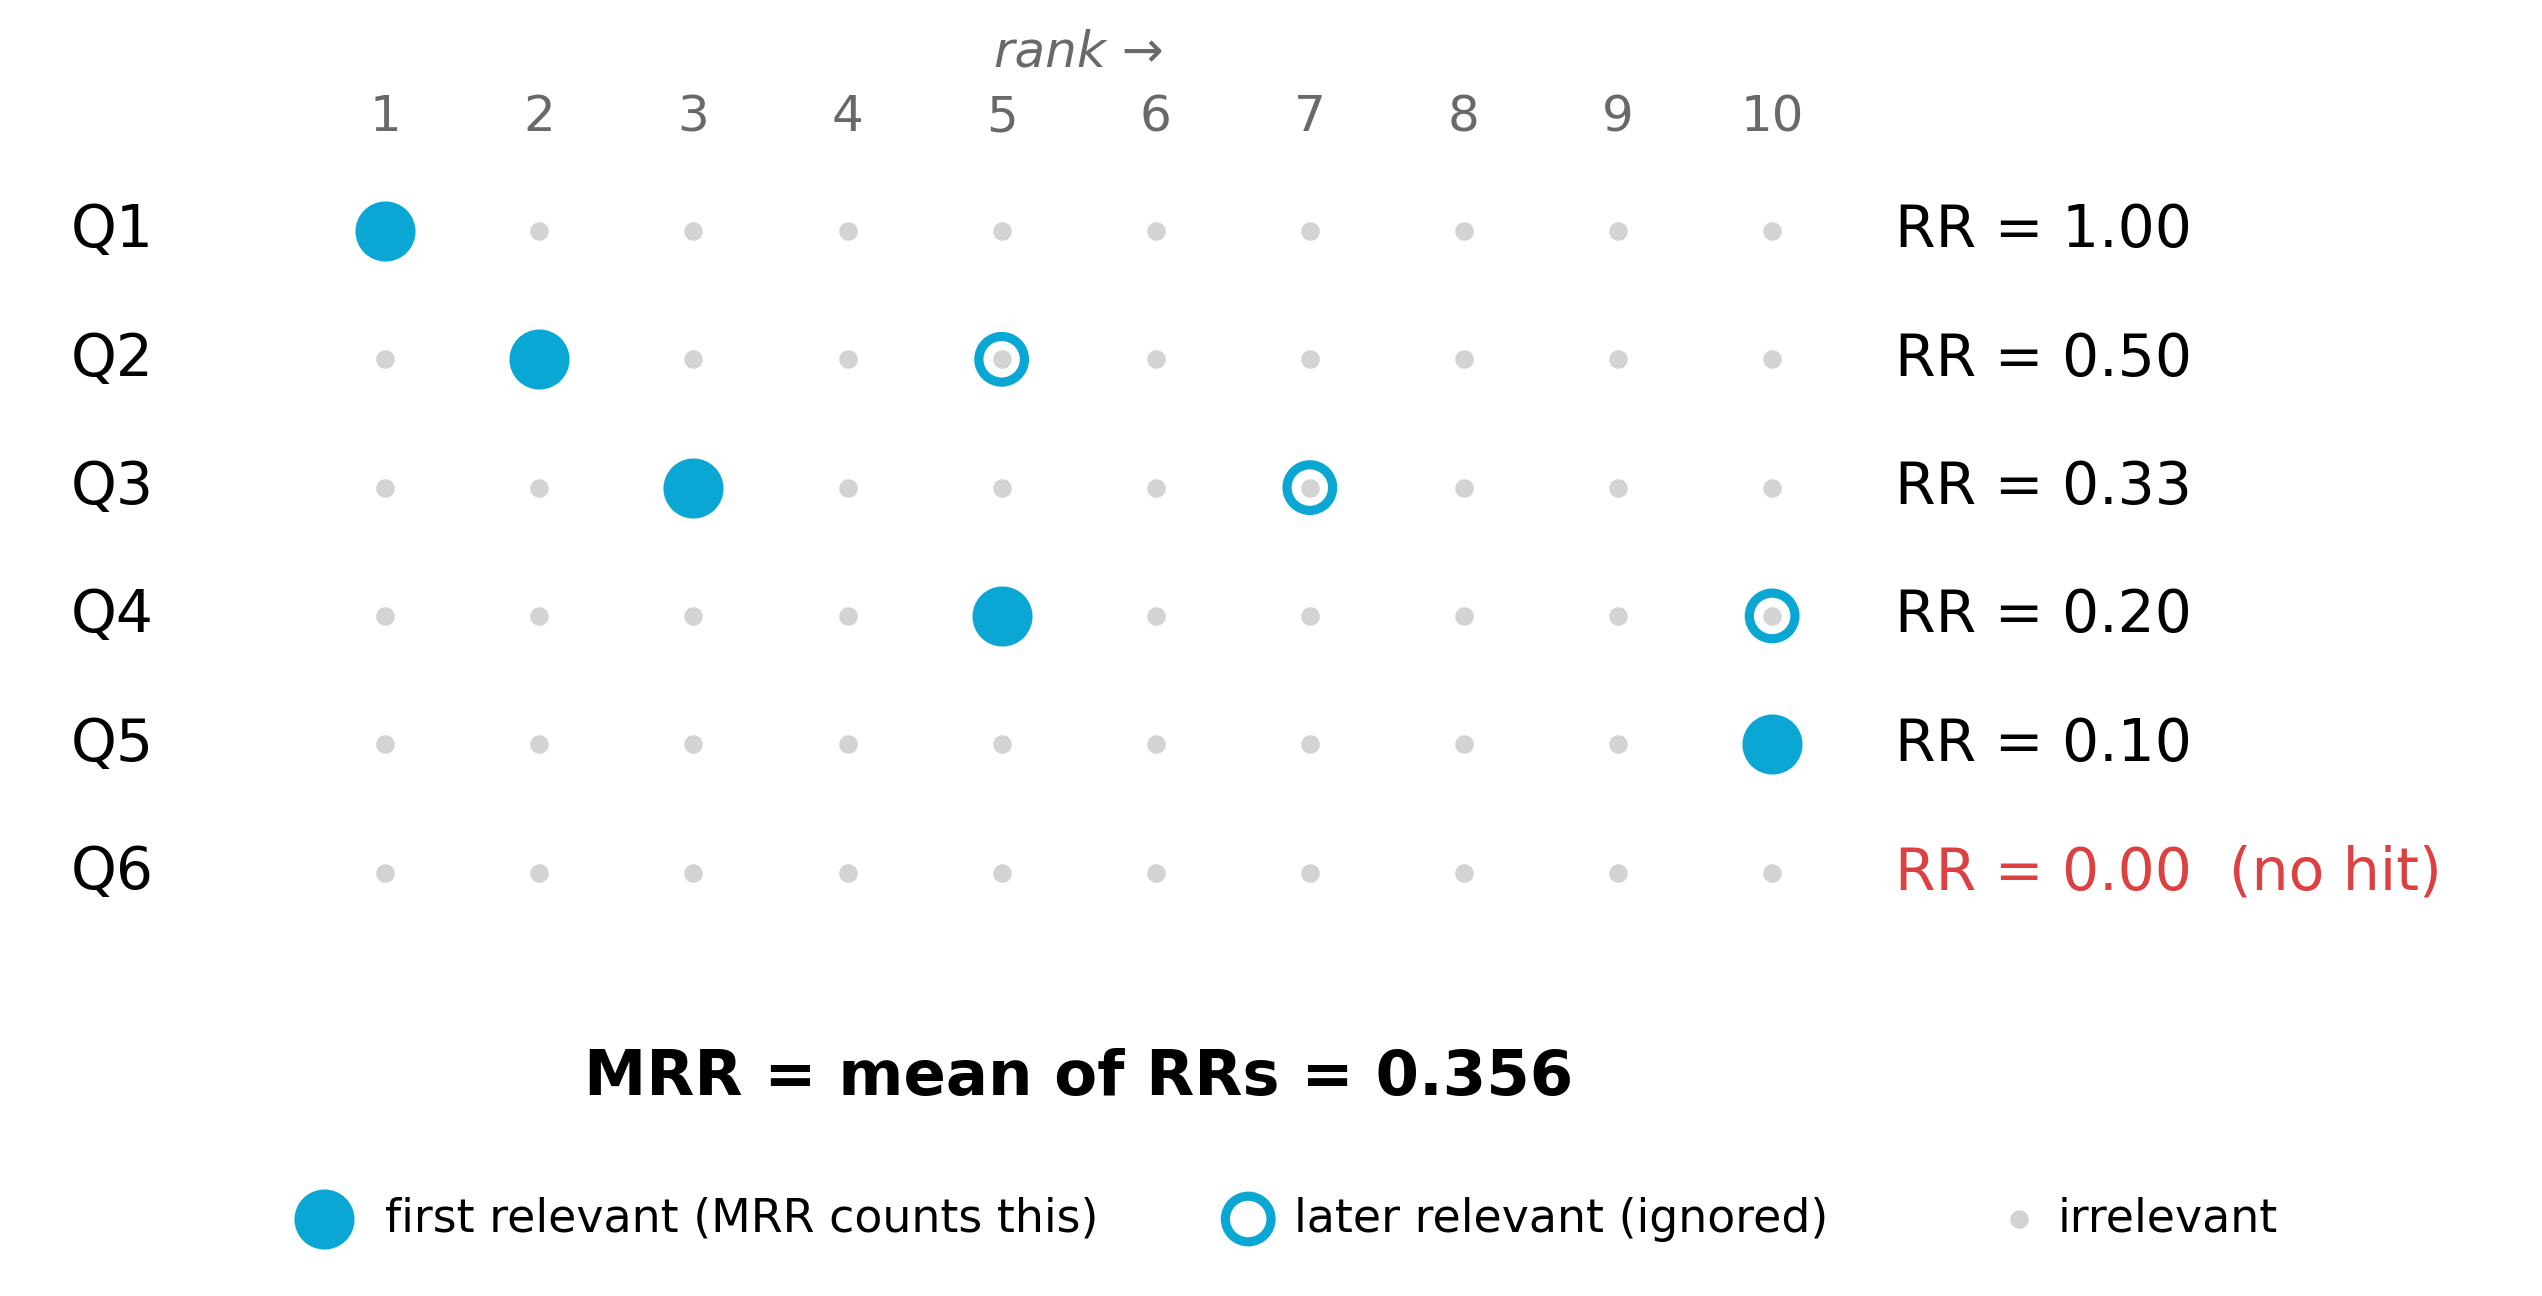
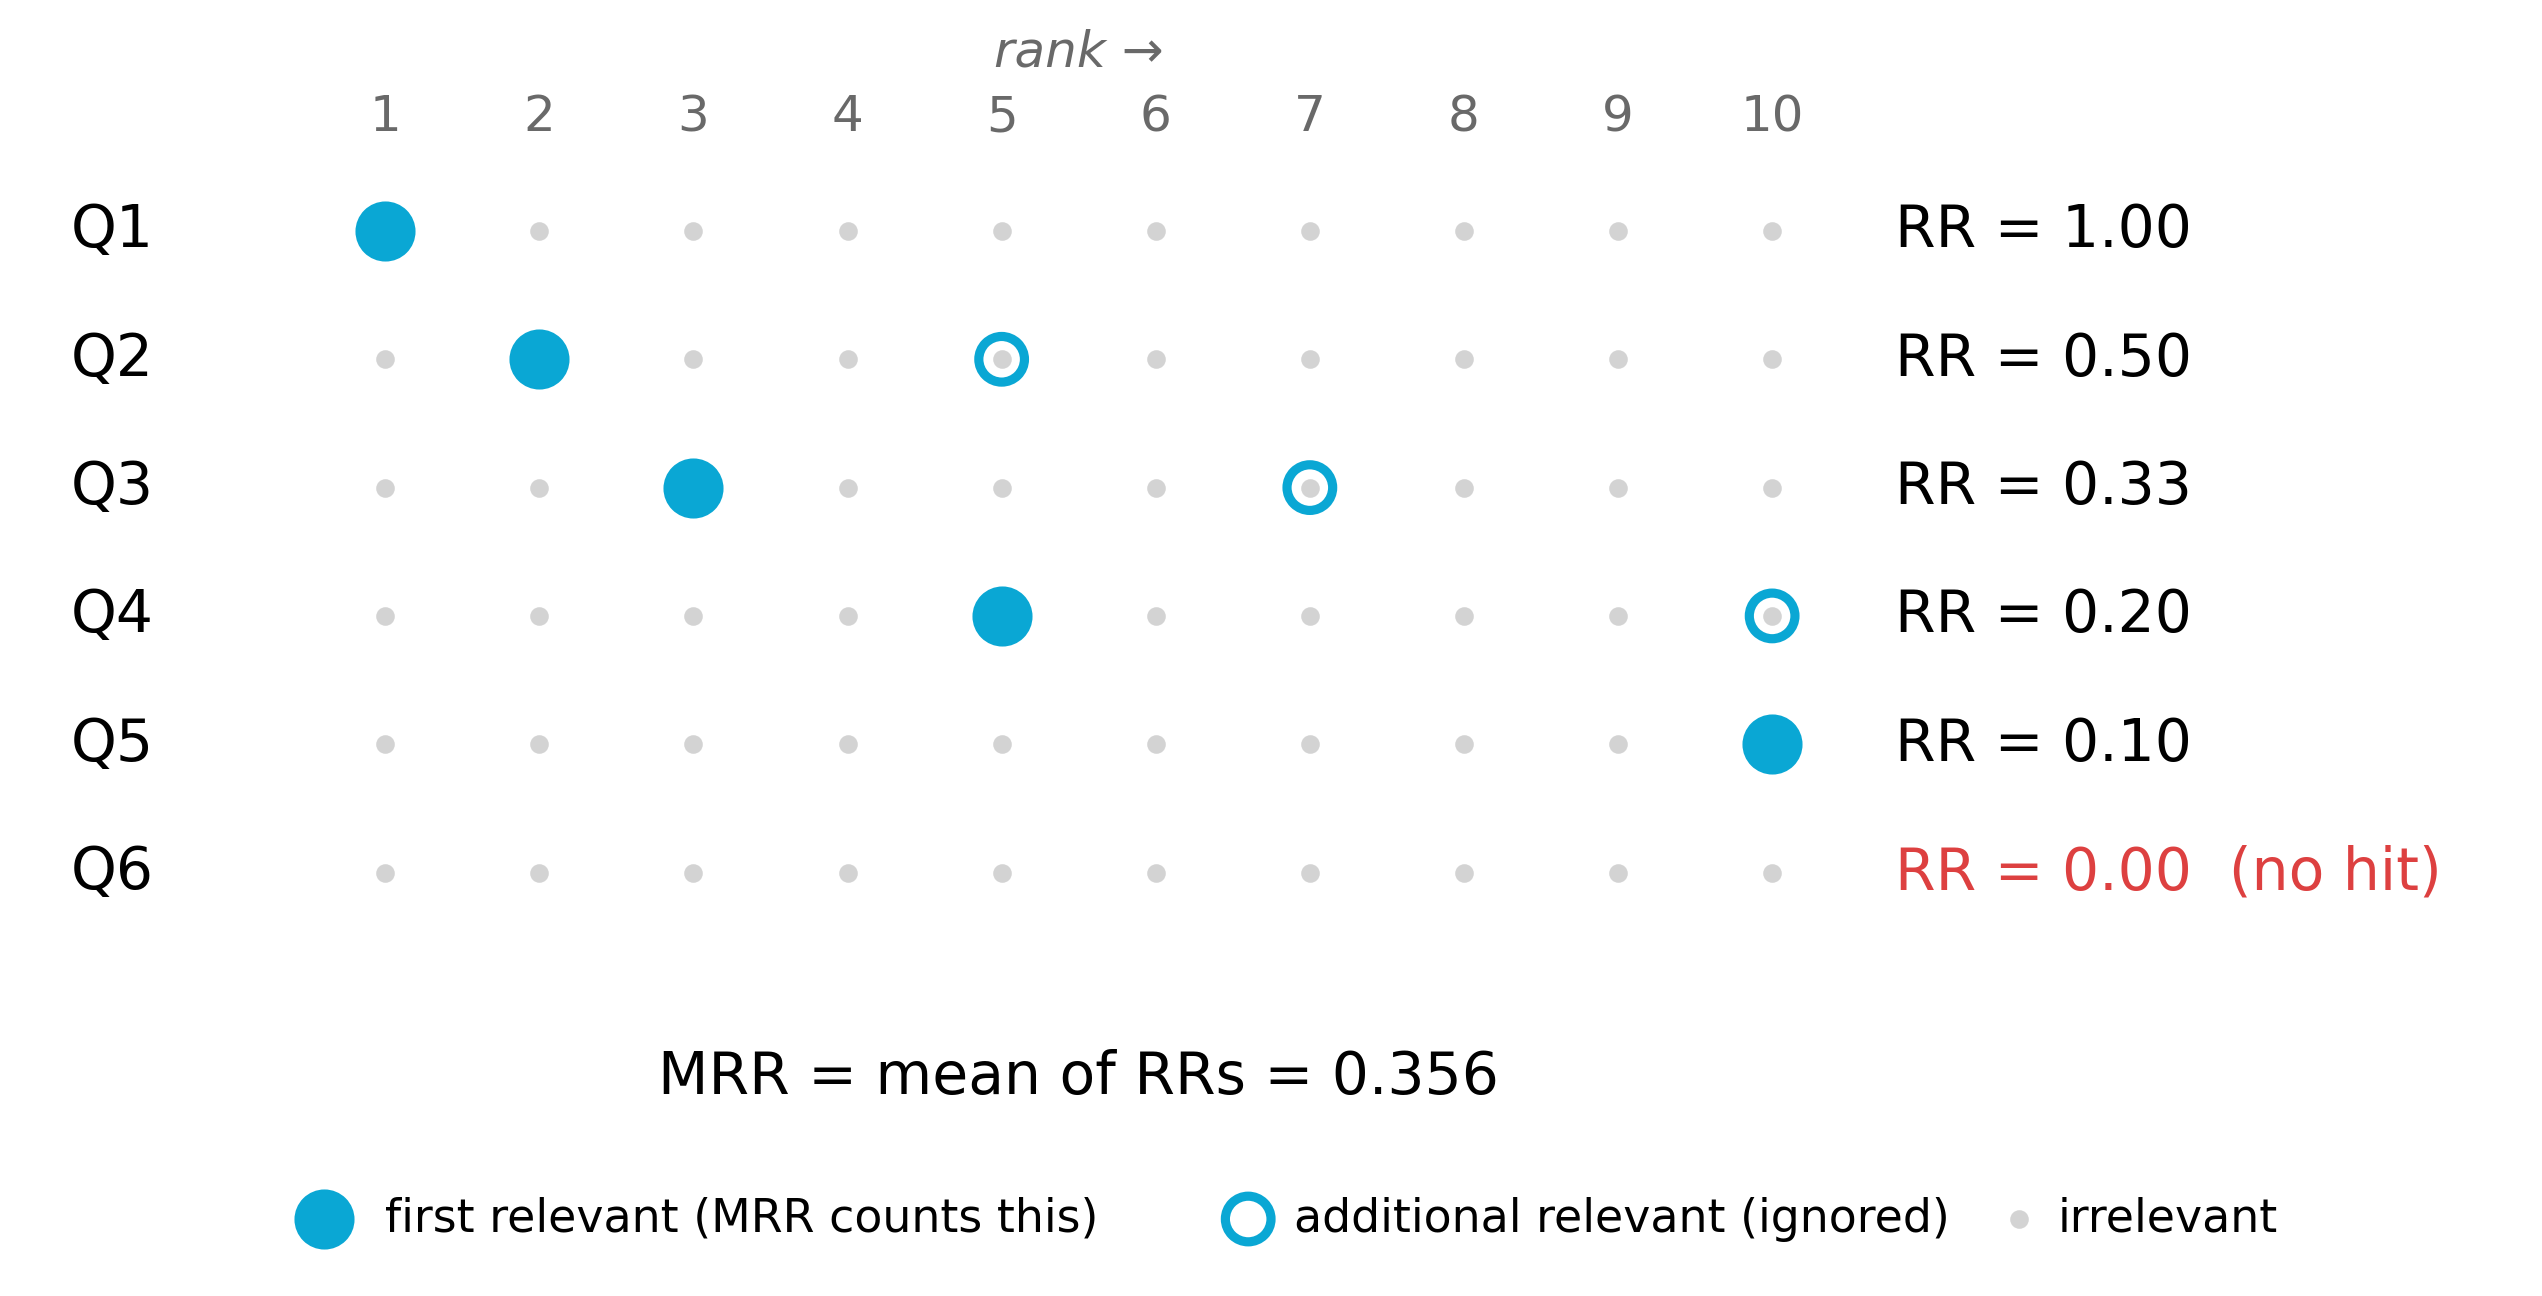
mrr plot: clearer legend term, drop bold on summary line

Changed region(s): [[0.2175, 0.8025, 0.6216, 0.8642], [0.4972, 0.9259, 0.7769, 0.9568]]

diff --git a/book/5-ranking.tex b/book/5-ranking.tex
@@ -92,7 +92,7 @@ Use MRR for known-item search and Q\&A: each query has one canonical answer and 
     \includegraphics[width=0.95\textwidth]{figures/MRR_ranked_lists.png}
 \end{figure*}
 
-\textbf{Figure.} Six example queries, one per row. The filled cyan dot is the first relevant item — the only one MRR scores; open dots are later relevant items that the metric ignores; small gray dots are irrelevant. The per-query reciprocal rank sits on the right; MRR averages them at the bottom. Q1 (relevant at rank $1$) and Q5 (rank $10$) differ by $10\times$ in score; Q6 (no relevant item) contributes zero.
+\textbf{Figure.} Six example queries, one per row. The filled cyan dot marks each query's first relevant item — the only one MRR scores. Open circles are additional relevant items that the metric ignores; small gray dots are irrelevant. The per-query reciprocal rank sits on the right; MRR averages them at the bottom. Q1 (relevant at rank $1$) and Q5 (rank $10$) differ by $10\times$ in score; Q6 (no relevant item in the top-$10$) contributes zero.
 
 \orangebox{Did you know that...}
 {MRR is the default scorer for question-answering benchmarks like TREC-QA and Natural Questions because the task is structurally known-item: there is one right answer and the user wants it first. Swapping MRR for nDCG only changes the score on queries with multiple plausible answers — for single-answer queries the two are essentially equivalent.}

diff --git a/notebooks/mrr_ranked_lists_plot.py b/notebooks/mrr_ranked_lists_plot.py
@@ -101,7 +101,7 @@ def main():
     ax.text(
         (K + 1) / 2, -1.6,
         f"MRR = mean of RRs = {mrr:.3f}",
-        ha="center", va="center", fontsize=15, fontweight="bold",
+        ha="center", va="center", fontsize=14,
     )
 
     # Legend strip (compact and well-spaced)
@@ -111,7 +111,7 @@ def main():
             va="center", fontsize=11)
     ax.scatter([6.6], [legend_y], s=SIZE_OTHER, facecolors="none",
                edgecolors=NML_CYAN, linewidths=2.2)
-    ax.text(6.9, legend_y, "later relevant (ignored)",
+    ax.text(6.9, legend_y, "additional relevant (ignored)",
             va="center", fontsize=11)
     ax.scatter([11.6], [legend_y], s=SIZE_IRRELEVANT, color="lightgray")
     ax.text(11.85, legend_y, "irrelevant",
